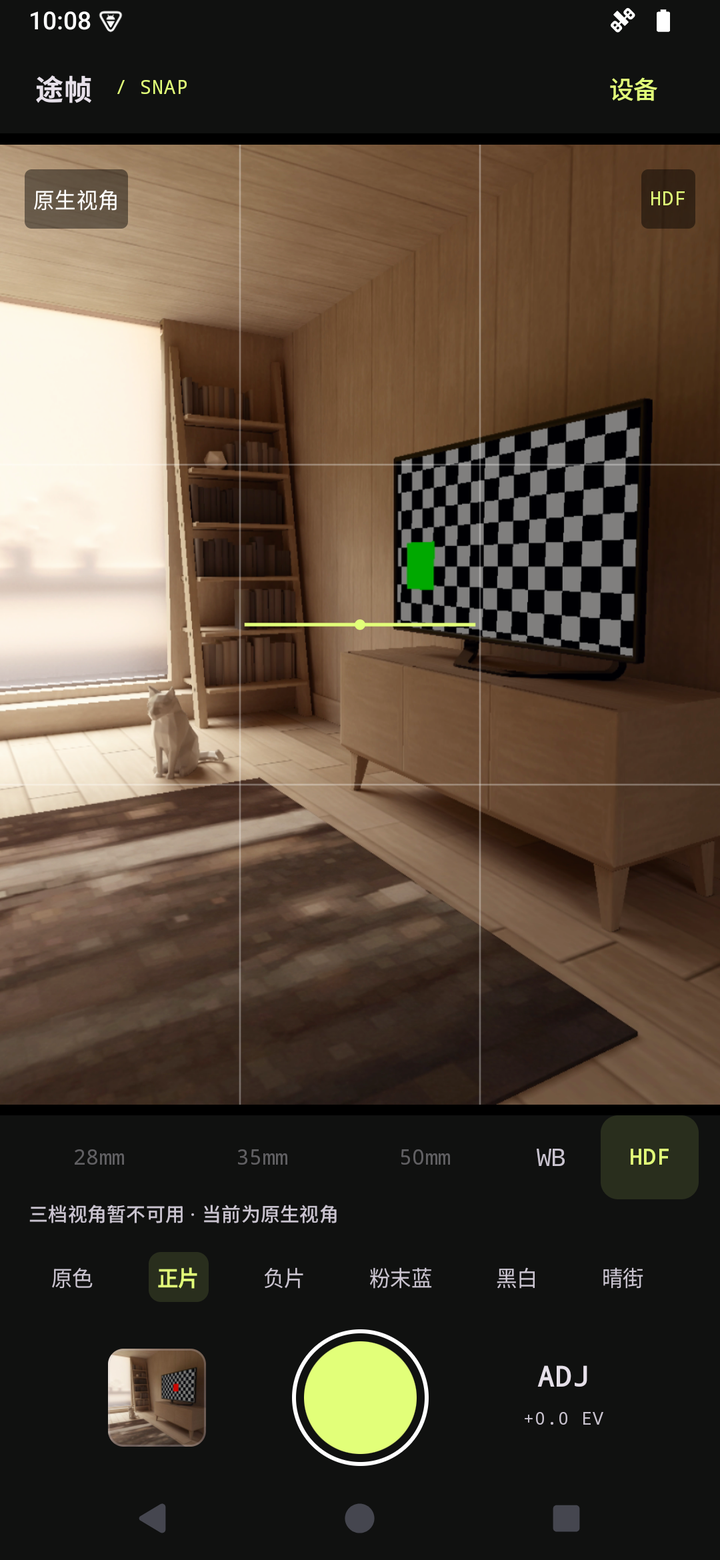
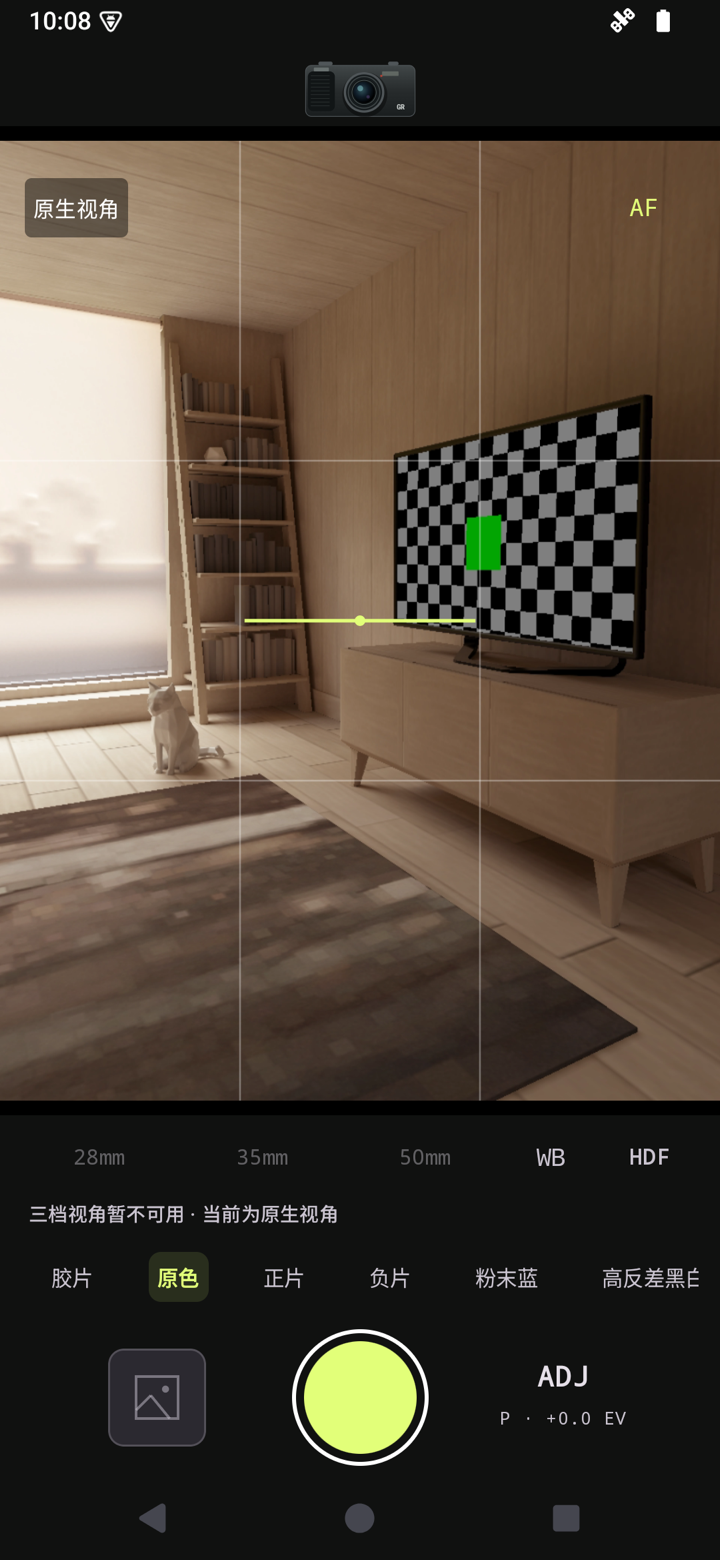
docs: refresh README UI screenshots

diff --git a/docs/images/README.md b/docs/images/README.md
@@ -1,10 +1,10 @@
 # 界面截图
 
-这三张图片来自实际 Preview APK，运行于 Android 15（API 35）AOSP ARM64 模拟器，使用内置 `virtualscene` 后置相机。截图用于展示操作界面，不代表真机拍摄效果。
+这三张图片来自当前实际 Preview APK，运行于 Android 15（API 35）AOSP ARM64 模拟器，使用内置 `virtualscene` 后置相机。截图用于展示操作界面，不代表真机拍摄效果。
 
-- `viewfinder.png`：三档视角按钮、正片影调、HDF、构图网格与拍照后的缩略图。
-- `color-controls.png`：粉末蓝影调与饱和度调节。
-- `white-balance.png`：设备提供的白平衡选项及 A–B / G–M 漂移。
+- `viewfinder.png`：顶部相机摆件、AF、HDF、三档视角入口、胶片快捷项与快门。
+- `camera-picker.png`：五个相机摆件、自动/横持/竖持方向和次级设备诊断入口。
+- `edge-models.png`：端侧构图辅助开关、SmolVLM 256M / 500M 选择、模型安装状态和快门不阻塞说明。
 
 28 / 35 / 50mm 三档按钮固定显示，只有设备支持的视角可以切换；不支持的选项置灰，并在下方说明原因。图中模拟器使用「原生视角」，不会将未标定的画面标成某个等效焦段。真实设备按相机能力启用对应视角与白平衡预设。
 
@@ -16,4 +16,4 @@
 adb -s <设备序列号> exec-out screencap -p > screenshot.png
 ```
 
-当前截图原始分辨率为 1080 × 2340，等比缩小为 720 × 1560 后存入此目录。保留完整界面，不拼接预览画面或伪造控件状态。更新时同步检查 README 的三列图片与描述。
+当前截图原始分辨率为 1080 × 2340，等比缩小为 720 × 1560 后存入此目录。保留完整界面，不拼接预览画面或伪造控件状态。模型图显示未安装状态，不暗示权重已打入 APK。更新时同步检查 README 的三列图片与描述。

diff --git a/README.md b/README.md
@@ -163,11 +163,11 @@ Android v0.3 开发预览已提供可安装 APK。当前优先完善拍摄体验
 
 ## Interface
 
-| 取景与快拍 | 行色 · 影调微调 | WB · 白平衡漂移 |
+| 取景与快拍 | 相机外观与持握 | 端侧模型选择 |
 | :---: | :---: | :---: |
-| <img src="docs/images/viewfinder.png" width="250" alt="途帧取景界面，包含 28 / 35 / 50mm 视角按钮、构图网格与快门"> | <img src="docs/images/color-controls.png" width="250" alt="行色调整面板，粉末蓝预设与饱和度调节"> | <img src="docs/images/white-balance.png" width="250" alt="白平衡预设与 A–B、G–M 漂移控制"> |
+| <img src="docs/images/viewfinder.png" width="250" alt="途帧最新取景界面，包含相机摆件、AF、HDF、胶片选择与快门"> | <img src="docs/images/camera-picker.png" width="250" alt="途帧相机选择器，包含五个相机摆件和自动、横持、竖持方向"> | <img src="docs/images/edge-models.png" width="250" alt="途帧端侧构图辅助设置，包含 SmolVLM 256M、500M 和安装状态"> |
 
-Android 15 模拟器中的实际 APK 截图，取景为内置测试场景。28 / 35 / 50mm 按钮固定显示，不支持的视角置灰；图中模拟器使用原生视角。实拍效果以设备为准。
+Android 15 模拟器中的当前 Preview APK 实际截图，取景为内置测试场景。第一张展示最新取景器与相机摆件；第二张展示相机外观和自动/横持/竖持方向；第三张展示可选端侧构图辅助的模型选择与“未安装”状态。模型权重不随当前 APK 分发，实拍效果和设备支持范围以真机为准。
 
 ## 安装与发布
 
